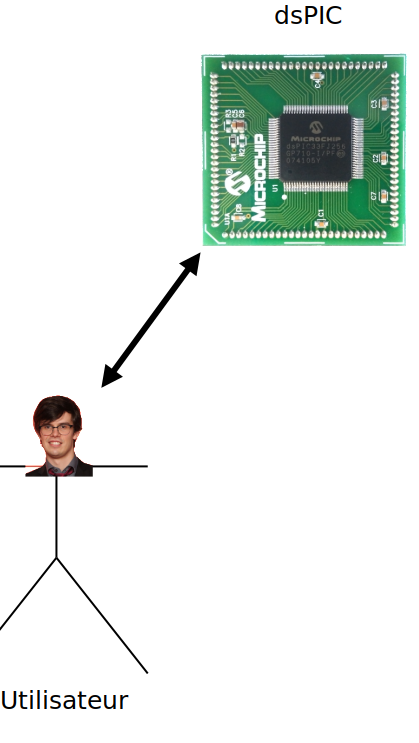
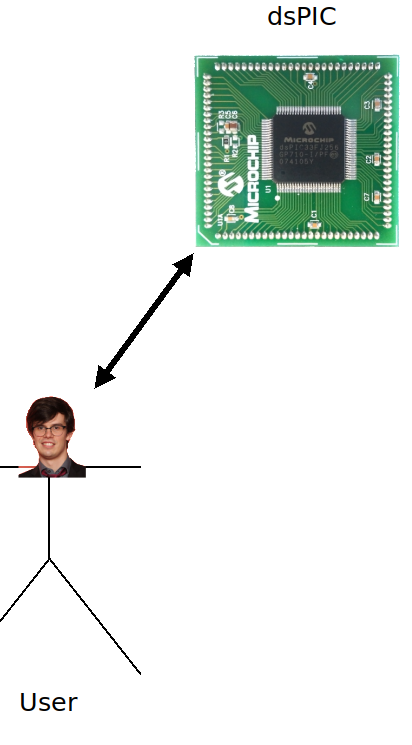
[Project 3] Relecture.

diff --git a/projet/partie 3/elech310_projet_partie3_eng.tex b/projet/partie 3/elech310_projet_partie3_eng.tex
@@ -2,7 +2,7 @@
 \usepackage[utf8]{inputenc}
 \usepackage[T1]{fontenc}
 \usepackage{amsthm} %numéroter les questions
-\usepackage[frenchb]{babel}
+\usepackage[english]{babel}
 \usepackage{datetime}
 \usepackage{xspace} % typographie IN
 \usepackage{hyperref}% hyperliens
@@ -28,7 +28,7 @@
 
 \usepackage{framed}
 
-\newdateformat{mydate}{2016--2017}%hack pour remplacer \THEYEAR
+\newdateformat{mydate}{v1.0.0}%hack pour remplacer \THEYEAR
 
 
 \newboolean{corrige}
@@ -55,7 +55,7 @@
 %% fancy header & foot
 \pagestyle{fancy}
 %Numero du TP :
-\def \labonumber {Projet -- Partie 3}
+\def \labonumber {Projet -- Part 3}
 \lhead{[ELEC-H-310] Choucroute numérique\\ \labonumber}
 \rhead{\mydate\today\\ page \thepage}
 \chead{\ifthenelse{\boolean{corrige}}{Corrigé}{}}
@@ -84,9 +84,9 @@ pdfsubject={}
 \newcommand{\addcontentslinenono}[4]{\addtocontents{#1}{\protect\contentsline{#2}{#3}{#4}{}}}
 
 \date{\vspace{-1.7cm}\mydate\today}
-\title{\vspace{-2cm}\labonumber\\ Électronique numérique [ELEC-H-310]\\Conception d'une régulation de refroidissement~: \\ interactions avec l'utilisateur\ifthenelse{\boolean{corrige}}{~\\Corrigé}{}}
+\title{\vspace{-2cm}\labonumber\\ Électronique numérique [ELEC-H-310]\\Conception d'une régulation de refroidissement: \\ interactions avec l'utilisateur\ifthenelse{\boolean{corrige}}{~\\Corrigé}{}}
 
-\title{\vspace{-2cm}\labonumber \\ Digital electronics [ELEC-H-310]\\Design of a cooling control system~: \\ interactions with user\ifthenelse{\boolean{corrige}}{~\\Corrigé}{}}
+\title{\vspace{-2cm}\labonumber \\ Digital electronics [ELEC-H-310]\\Design of a cooling control system: \\ interactions with user\ifthenelse{\boolean{corrige}}{~\\Corrigé}{}}
 
 %\author{\vspace{-1cm}}%\textsc{Yannick Allard}}
 
@@ -130,18 +130,18 @@ pdfsubject={}
 During three laboratory sessions, you will have to design a small cooling control system based on a propeller fan.
 You will also have to be able to interact locally (keyboard) with this system.
 
-During this third lab session, you will add two interaction modes between the temperature control system and the user~: either locally with a keyboard, or remotely through a serial port.
+During this third lab session, you will add two interaction modes between the temperature control system and the user: either locally with a keyboard, or remotely through a serial port.
 
 At the end of this lab session, you should finish your whole cooling control system.
 
 
 \section*{Prerequisite}
-Before entering in the lab, you have to read the project specifications defined in the file «~Design of a temperature regulation system~».
+Before entering in the lab, you have to read the project specifications defined in the document ``Design of a temperature regulation system".
 
 
 
 \section*{Objectifs}
-At the end of this lab session, you'll be able to~:
+At the end of this lab session, you'll be able to:
 \begin{itemize}
 	\item Design and implement a serial connection between two processors and to explain how it works.
 	\item To make numerous peripheral devices communicate with each other.
@@ -168,7 +168,7 @@ During three laboratory sessions, you will have to design a small cooling contro
 You will also have to be able to interact locally (keyboard) with this system.
 
 During this lab session, you will first build a way to interact with the keyboard of the extension PCB.
-Depending on the character string in input, different changes will have to be forecast in the operating of the PCB (ex~: change of the desired temperature, of the sampling period, ...).
+Depending on the character string in input, different changes will have to be forecast in the operating of the PCB (ex: change of the desired temperature, of the sampling period, ...).
 
 Then, you will ensure than similar changes could be done... remotely!
 A PC, connected to the processor through a serial cable, will play the role of the control room allowing you to interact with the processes without being physically present.
@@ -197,11 +197,11 @@ A PC, connected to the processor through a serial cable, will play the role of t
 \end{figure}
 
 As explained in the coding guide, the keyboard is connected to generic I/O pins of the $\mu$C.
-A function allowing to receive the pressed key will be given to you.
+A function allowing to receive the pressed key will be provided.
 
 
 \begin{itemize}
-	\item Thanks to the coding guide, explain the general principal of this "matrix" keyboard.
+	\item Thanks to the coding guide, explain the general principal of this ``matrix" keyboard.
 	\item During the initializing phase of your code, set correctly the I/O pins connected to the keyboard.
 	\item A function allowing you to read the pressed key is given.
 	If the key is effectively pressed, it sents the corresponding character (‘0’ to ‘9’ or ‘A’ to ‘F’).
@@ -213,7 +213,7 @@ Now that the keyboard is working, you can write the function allowing to modify 
 The list of the possible commands is given in the global project specifications.
 \begin{itemize}
 	\item The function allowing you to read the pressed keys requires a large amount of instructions.
-	Where do you have to call this function in order to avoid uselessly blocking the processor?
+	Where do you have to call this function in order to avoid blocking the processor uselessly?
 	\item When the user is typing on the keyboard, the LCD has to display the pressed key.
 	Once the command is entered or cancelled, the LCD has to display the temperature again.
 \end{itemize}
@@ -234,20 +234,19 @@ The list of the possible commands is given in the global project specifications.
 
 
 \section{Serial connection}
-In this part, you will sent data to the PC through the serial port in ordre to following the temperature evolution, as well as to receive the commands from the PC to adjust the temperature control.
+In this part, you will send data to the PC through the serial port in order to follow the temperature evolution, as well as to receive the commands from the PC to adjust the temperature control.
 
 The last module to set is the serial port, allowing to communicate remotely with a PC.
 This module is named UART (Universal Asynchronous Receiver / Transmitter).
 
-Before designing this communication, you will have to set the dsPIC and the PC in order to make them «~speak the same language~»
+Before designing this communication, you will have to set the dsPIC and the PC in order to make them ``speak the same language".
 We will start by the dsPIC setup.
 
 \begin{itemize}
-	\item Thanks to the coding guide, configure the UART such that the communication respects the following format~:
+	\item Thanks to the coding guide, configure the UART such that the communication respects the following format:
 	\begin{itemize}
-		% \item Baudrate~: 19200 bits/s
-		\item Baudrate~: 9600 bits/s
-		\item Data bits~: 8
+		\item Baudrate: 9600
+		\item Data bits: 8
 		\item No parity bit
 		\item Only one stop bit
 		\item No stream control
@@ -258,36 +257,23 @@ We will start by the dsPIC setup.
 \subsection{Sending data to the PC}
 To send the data, 
 Pour envoyer des données, refer to the code \texttt{initUART} given as an example and to the coding guide.
-As mentioned in the project specifications, you have to sent five characters for each temperature measure~: «~42.5\textbackslash n~», where «~\textbackslash n~» is the character for line break.
+As mentioned in the project specifications, you have to sent five characters for each temperature measure: ``42.5\textbackslash n", where ``\textbackslash n" is the character for line break.
 
 To display the data on the PC, you just have the execute the script \texttt{graph.py}.
 
 
 
 \subsection{Sending commands from the PC}
-% \begin{figure}[H]
-% \center
-% \includegraphics[width=0.4\textwidth]{serie}
-% \caption{Connexion série entre la plate-forme et le PC.}
-% \label{fig:serie}
-% \end{figure}
 
-On the PC, open the window \texttt{putty}, and set the same format parameters than previously.
+On the PC, open the program \texttt{putty}, and set the same format parameters.
 
-% Une fois le protocole de communication établi, il reste à effectivement envoyer les données.
-% Commencez par la transmission du dsPIC vers le PC.
-% \begin{itemize}
-% 	\item Écrivez une fonction permettant d’afficher la température sur l’hyperterminal.
-% 	Pour ce faire, vous devrez écrire plusieurs valeurs successives dans le registre d’envoi \texttt{U2TXREG}, en prenant à chaque fois soin de vérifier que le buffer n’est pas plein afin de ne pas écraser les caractères qui n’auraient pas été envoyés.
-% 	\item Modifiez votre programme de sorte à exécuter cette fonction toutes les 1~s.
-% \end{itemize}
 
 Finally, all that remains is to set up the $\mu$C so that it can accept commands coming from the serial port.
 \begin{itemize}
 	\item Write a routine allowing to read the last character received.
 	Justify why this routine must be called with an interruption.
 	\item Check if you $\mu$C is capable of receiving a character coming from the PC.
-	\item Complete your routine in order to make your system behave as described in the glocal project specifications.
+	\item Complete your routine in order to make your system behave as described in the global project specifications.
 \end{itemize}
 
 
@@ -306,7 +292,7 @@ Finally, all that remains is to set up the $\mu$C so that it can accept commands
 
 
 \section{Project customization}
-Your cooling control system is now functional, you can add different features to it and enhance its operating~!
+Your cooling control system is now functional, you can add different features to enhance it!
 
 
 \end{document}
